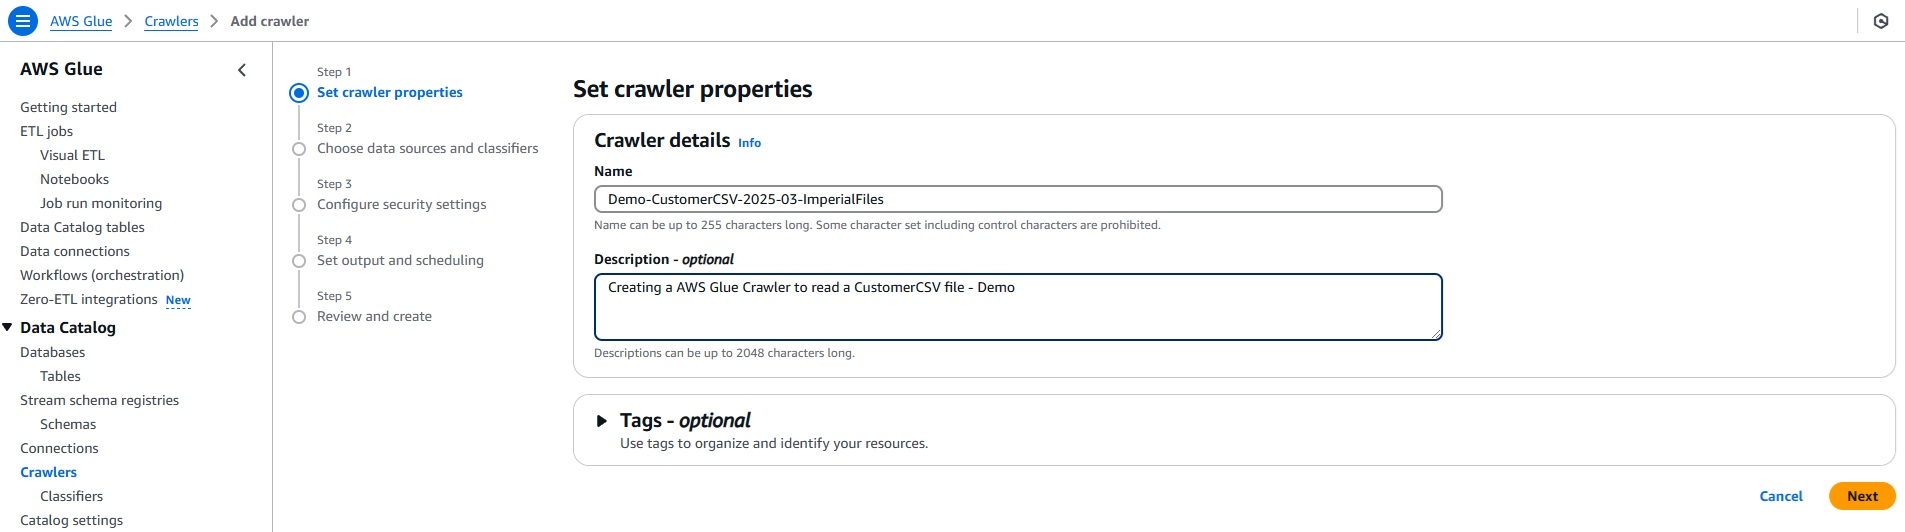
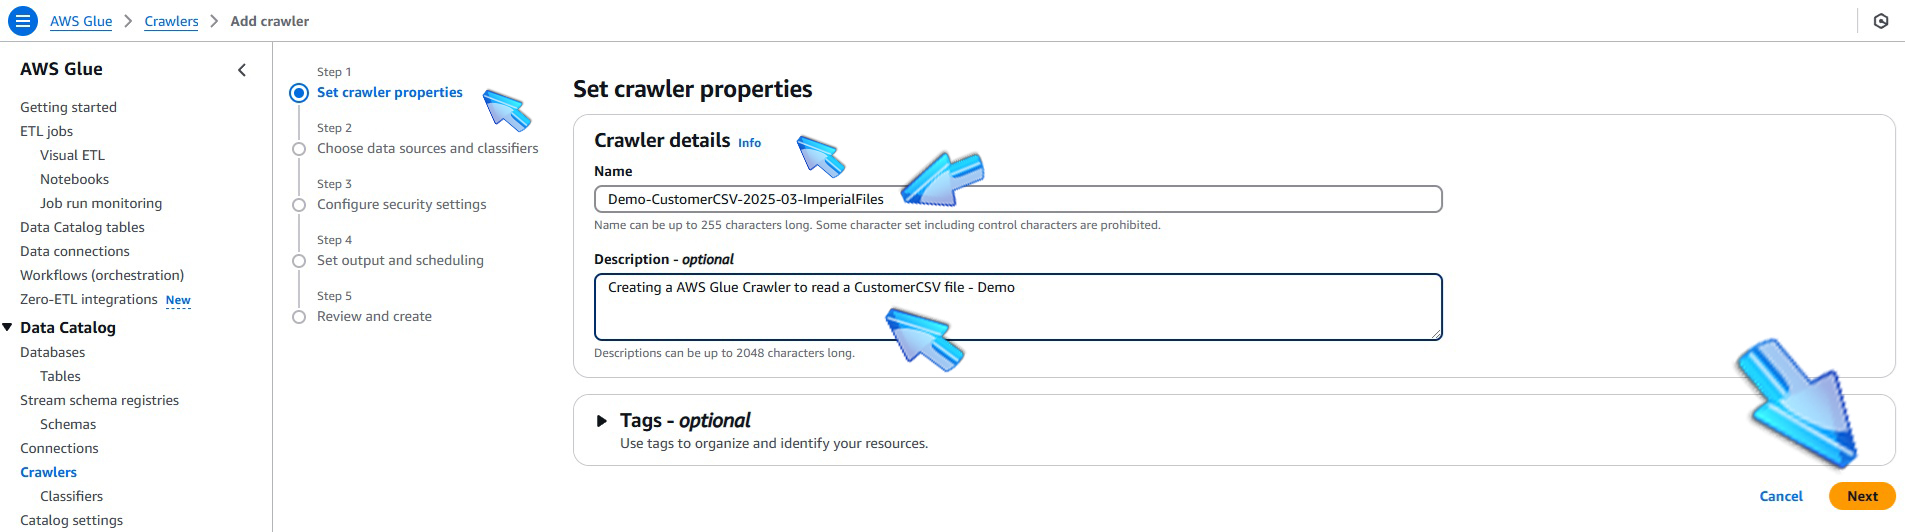
Update AWS Glue documentation images with new crawler visuals

diff --git a/thisisthelab.md b/thisisthelab.md
@@ -109,8 +109,37 @@
 ###### Clique em CREATE CRAWLER
 
 ###### ![United States](https://github.com/Acheroniano/flag-icon/blob/master/png/16/country-4x3/us.png "United States") 
-###### Click in CREATE CRAWLER
+###### Click CREATE CRAWLER
 
 ![AWS Glue Create Crawler](./images/11a-AWSGlueCrawlerScreen.jpg)
 
+# 3.2 - AWS Glue - Crawler Properties
+
+###### ![Brazil](https://github.com/Acheroniano/flag-icon/blob/master/png/16/country-4x3/br.png "Brazil") 
+###### Preencha as informações para parametrizar o Crawler
+
+###### ![United States](https://github.com/Acheroniano/flag-icon/blob/master/png/16/country-4x3/us.png "United States") 
+###### Fill in the information to parameterize the Crawler
+
+![AWS Glue Crawler Properties](./images/12a-AWSGlueCrawlerSetProperties.jpg)
+
+# 3.3 - AWS Glue - Crawler DATA SOURCE Configuration
+
+###### ![Brazil](https://github.com/Acheroniano/flag-icon/blob/master/png/16/country-4x3/br.png "Brazil") 
+###### Clique no botão *add a Data Source* para poder indicar a fonte dos dados.
+
+###### ![United States](https://github.com/Acheroniano/flag-icon/blob/master/png/16/country-4x3/us.png "United States") 
+###### Click on the *add a Data Source* button to indicate the data source.
+
+![AWS Glue Crawler Data Source](./images/13a-AWSGlueCrawlerDataSource.jpg)
+
+###### ![Brazil](https://github.com/Acheroniano/flag-icon/blob/master/png/16/country-4x3/br.png "Brazil") 
+###### Faça a parametrização do *Data Source* com o bucket *bucket-for-csv-rawdata-2025-03*
+###### Clique no botão *ADD an S3 Data Source*. 
+
+###### ![United States](https://github.com/Acheroniano/flag-icon/blob/master/png/16/country-4x3/us.png "United States") 
+###### Parameterize the *Data Source* with the bucket *bucket-for-csv-rawdata-2025-03*
+###### Click on the *ADD an S3 Data Source* button. 
+
+![AWS Glue Crawler Parametrization](./images/14a-AWSGlueCrawlerAddDataSource.jpg)
 
